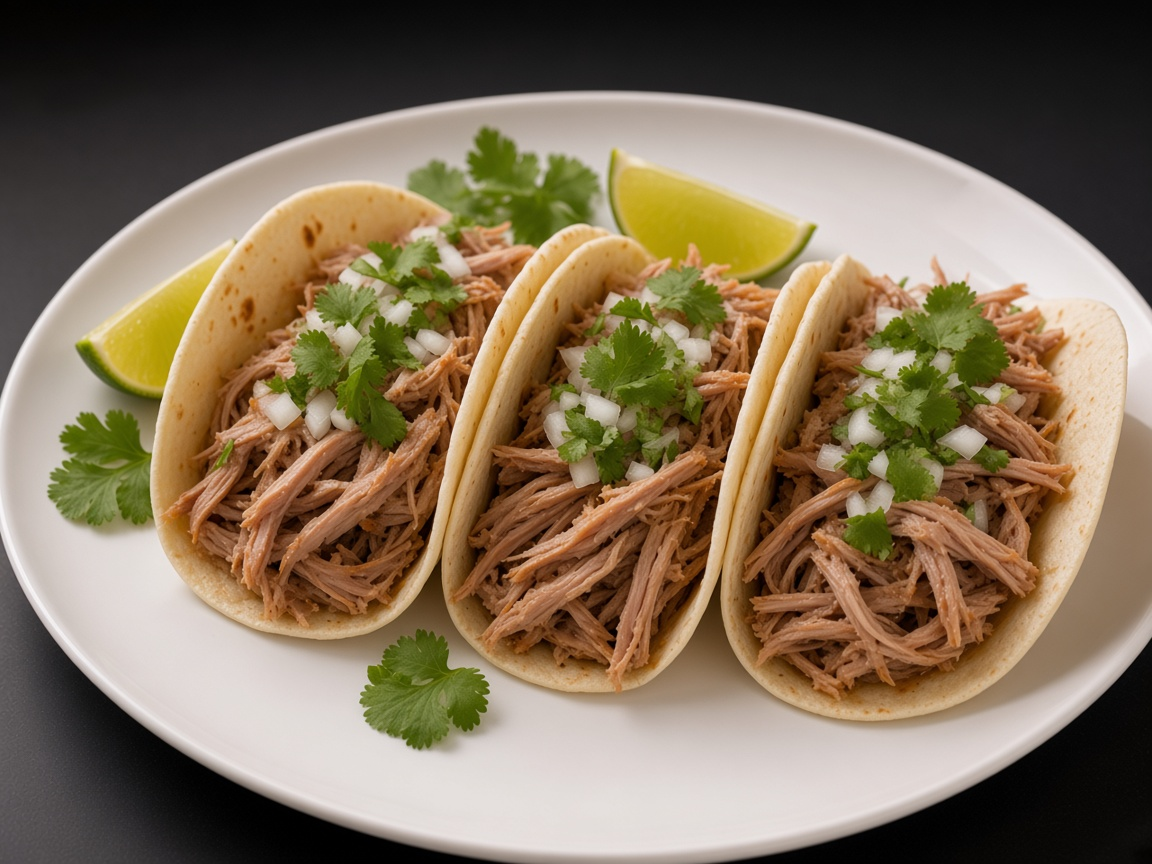
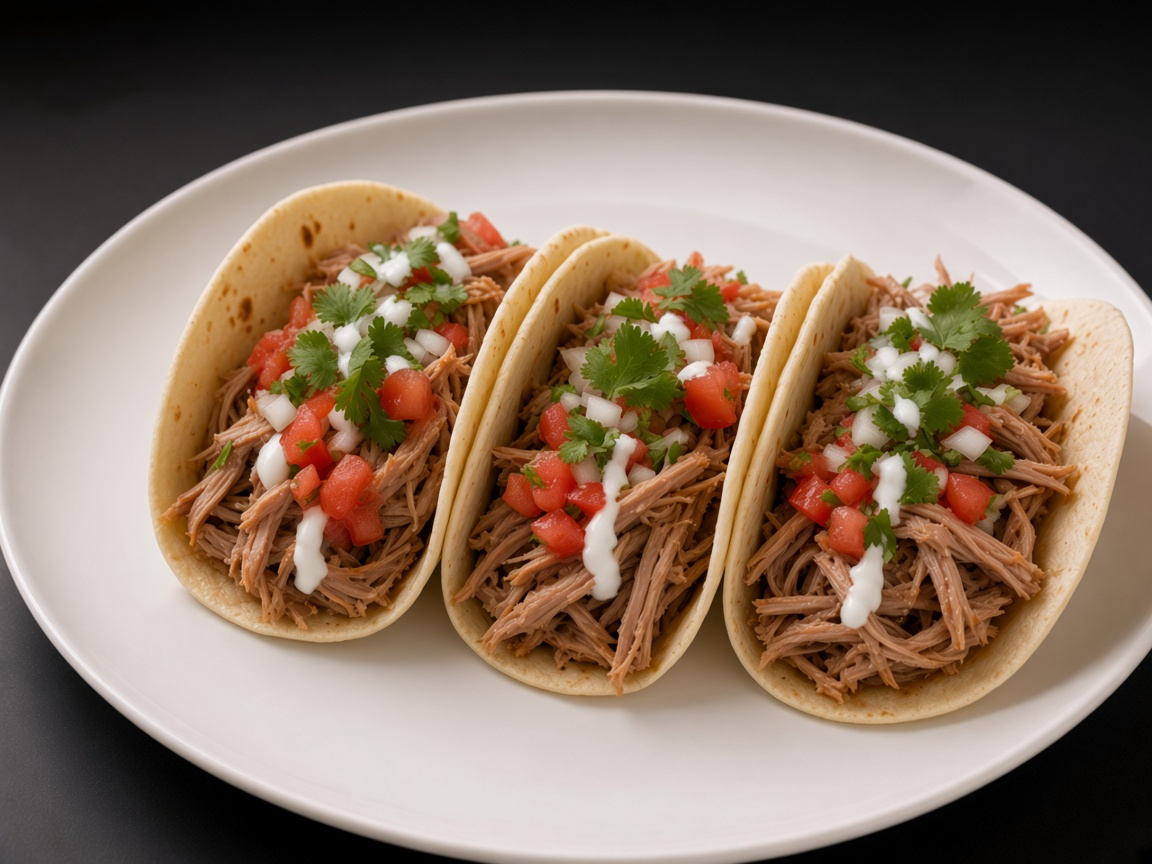
Refresh taco photos and cap Diego calls

diff --git a/voice.html b/voice.html
@@ -828,7 +828,11 @@
       var sessionAlive = false;
       var intentionallyHungUp = false;
       var hangUpTimer = null;
+      var callLimitWarningTimer = null;
+      var callLimitTimer = null;
       var connectGen = 0;
+      var CALL_LIMIT_MS = 5 * 60 * 1000;
+      var CALL_WARNING_MS = CALL_LIMIT_MS - 30 * 1000;
       var history = [];
       var pendingCalls = {};
       var taxRate = 0.07;
@@ -1273,6 +1277,32 @@
         try {
           dc.send(JSON.stringify(obj));
         } catch (e) {}
+      }
+
+      function clearCallLimitTimers() {
+        if (callLimitWarningTimer) clearTimeout(callLimitWarningTimer);
+        if (callLimitTimer) clearTimeout(callLimitTimer);
+        callLimitWarningTimer = null;
+        callLimitTimer = null;
+      }
+
+      function armCallLimitTimers() {
+        clearCallLimitTimers();
+        callLimitWarningTimer = setTimeout(function () {
+          callLimitWarningTimer = null;
+          if (!callInProgress()) return;
+          dcSend({
+            type: 'response.create',
+            response: {
+              instructions:
+                'Say exactly one short sentence: "Quick heads up, we have about thirty seconds left on this call." Then listen.',
+            },
+          });
+        }, CALL_WARNING_MS);
+        callLimitTimer = setTimeout(function () {
+          callLimitTimer = null;
+          if (callInProgress()) hangUp();
+        }, CALL_LIMIT_MS);
       }
 
       function replyTool(callId, output) {
@@ -2444,6 +2474,7 @@
           clearTimeout(hangUpTimer);
           hangUpTimer = null;
         }
+        clearCallLimitTimers();
         try {
           if (dc && dc.readyState === 'open') {
             try {
@@ -2758,6 +2789,7 @@
 
           connected = true;
           connecting = false;
+          armCallLimitTimers();
           btn.disabled = false;
           btn.classList.remove('canceling');
           btn.classList.add('live');

diff --git a/api/realtime-token.js b/api/realtime-token.js
@@ -199,6 +199,7 @@ module.exports = async function handler(req, res) {
     'ENCHILADAS: "chicken enchilada(s)" / "one enchilada chicken" = Two Enchiladas · Shredded Chicken — ONE line, qty 1. Lock immediately.',
     'BURRITO / QUESADILLA: "a burrito" / "one quesadilla" with protein = ONE menu line for that item.',
     'TACOS: "beef taco(s)" = Three Tacos · Shredded Beef $13.49. Pork = Three Tacos · Shredded Pork $13.49. Shrimp = Three Tacos · Grilled Shrimp $21.99. "fish tacos" / "cod tacos" = Three Tacos · Crispy Cod $21.99. "lamb tacos" = Three Mediterranean Lamb Tacos $21.99.',
+    'TACO FINISHES: Beef, chicken and pork tacos get colorful pico de gallo and a light sour-cream drizzle. Shrimp tacos have no cheese; they get extra pico de gallo and fresh avocado slivers.',
     'LAMB SPECIAL: Mediterranean lamb is tacos only — never invent a lamb burrito, enchilada or quesadilla. Three 6-inch flour tacos with grilled chopped lamb, lemon-and-olive-oil dressed shredded iceberg, cucumber, seeded diced tomato, finely diced red onion, tzatziki, fresh mint and a light touch of fresh oregano. No cheese.',
     'COD is available in tacos, burritos, enchiladas and quesadillas. Tacos and burritos use generous battered cod with crisp festive lime slaw (green and red cabbage, carrots, jicama, vinegar, lime and light cilantro) and tartar sauce on the side. Cod enchiladas use chopped cod, light green enchilada sauce, Mexican-blend cheese and a thin mango-salsa finish after baking. The cod quesadilla is sandwich-style with cheese on both inside surfaces, chopped cod and festive slaw, cut into four wedges.',
     'QUESADILLA PREP EXCEPTION: Chicken quesadillas use chopped chicken breast with a very light smoked-paprika coating, not braised shredded chicken. Pork quesadillas use lean chopped roast pork with visible fat trimmed; the pork is naturally lighter in color than beef.',

diff --git a/api/tacoMenu.js b/api/tacoMenu.js
@@ -27,6 +27,7 @@ TACO MAPPING (CRITICAL):
 
 COOKING METHOD (say when they ask how it's made — short; do not dump on every order):
 Beef, chicken & pork are braised / shredded — never ground. Beef: slow-cooked with carrots, celery & taco seasoning (like a good beef stew), cooled, shredded, simmered again. Shrimp: seasoned & grilled to perfection.
+Beef, chicken and pork tacos are finished with colorful pico de gallo and just a light drizzle of sour cream. Shrimp tacos have no cheese; finish them with extra pico de gallo and fresh avocado slivers.
 Crispy cod tacos and burrito: generous pieces of golden battered cod with crisp festive slaw made from green and red cabbage, carrots, jicama, lime, a light splash of white wine or apple cider vinegar and a little cilantro, served in warm soft wheat tortillas. The slaw is bright and non-creamy; tartar sauce is served on the side.
 Mediterranean lamb tacos: grilled chopped lamb in warm 6-inch flour tortillas with lemon-and-olive-oil dressed shredded iceberg, cucumber, seeded diced tomato, finely diced red onion, tzatziki, fresh mint and a light touch of fresh oregano. No cheese.
 

diff --git a/api/diegoKitchenKnowledge.js b/api/diegoKitchenKnowledge.js
@@ -18,6 +18,7 @@ const DIEGO_KITCHEN_KNOWLEDGE = `
 - Season: avocado oil + taco spice + crushed/minced garlic — toss in a stainless bowl.
 - Cook: onto the grill hot; finish with a couple tabs of butter, spinning with a fork so it coats.
 - Portion: chill and bag (e.g. four shrimp = eight pieces after butterflying); finish on the charbroiler, then into taco / burrito / enchilada / quesadilla.
+- Shrimp tacos: no cheese; finish with extra pico de gallo and fresh avocado slivers.
 - Guest vibe: juicy, garlicky, taco-spiced, buttery finish — next-level shrimp.
 
 ---
@@ -40,6 +41,11 @@ const DIEGO_KITCHEN_KNOWLEDGE = `
 
 ## Shredded pork
 - Same slow-braise / shred / juice-back care as the beef — locks in homemade flavor for every plate.
+
+---
+
+## Beef, chicken & pork taco finish
+- Top the three-taco orders with colorful pico de gallo and only a light drizzle of sour cream — just enough flair without covering the braised meat.
 
 ---
 
